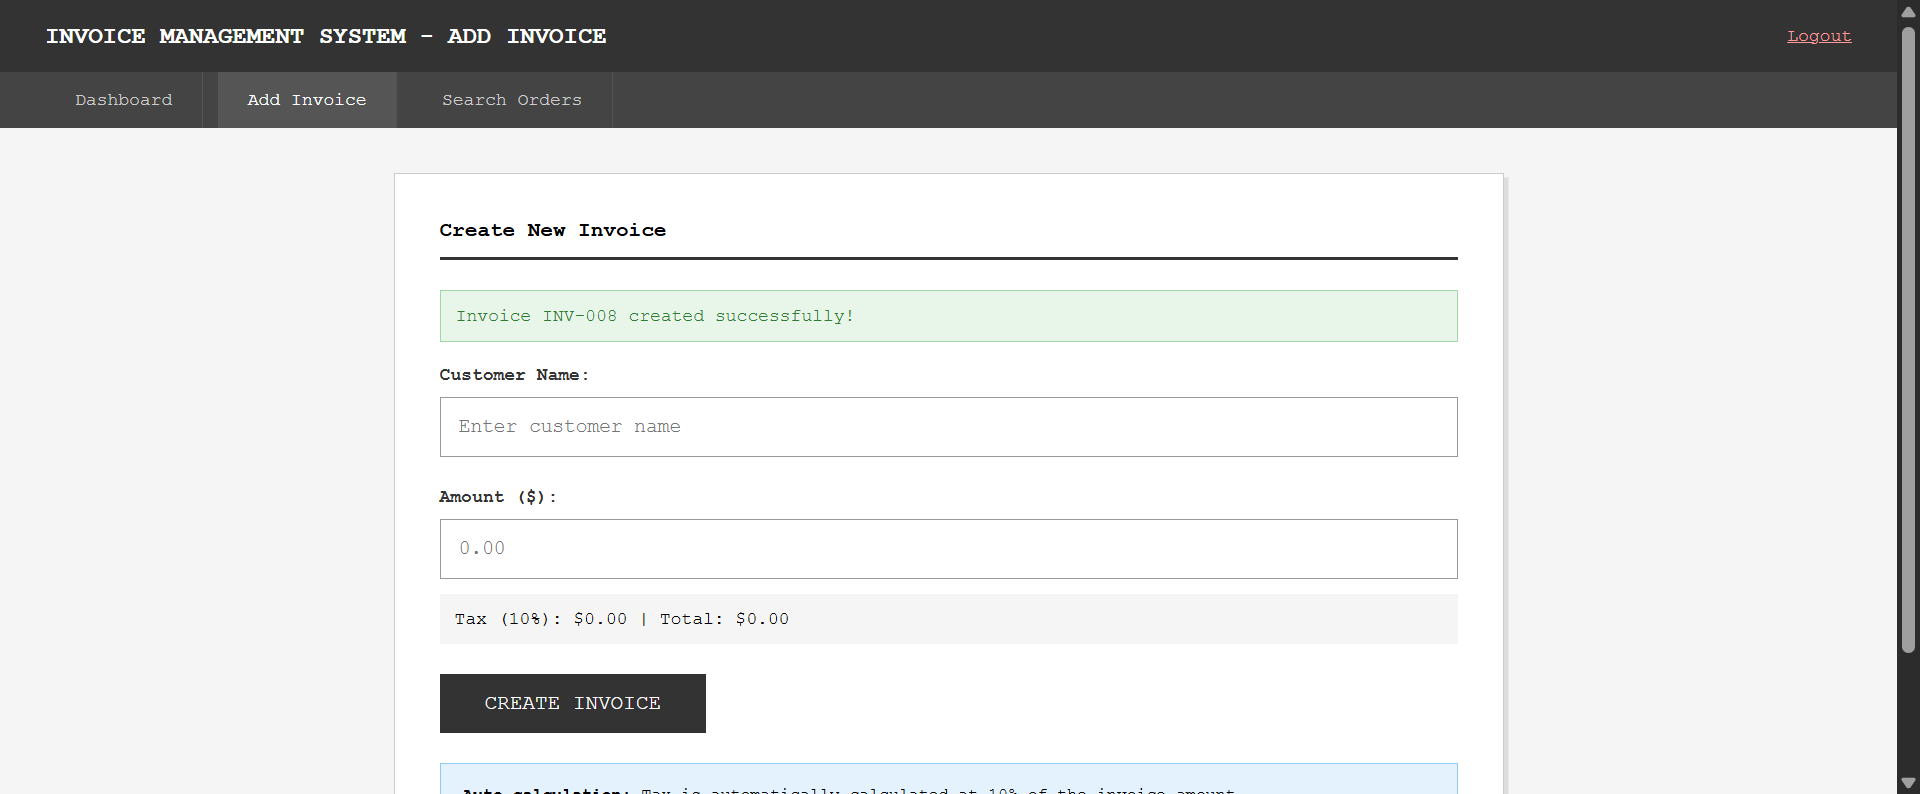
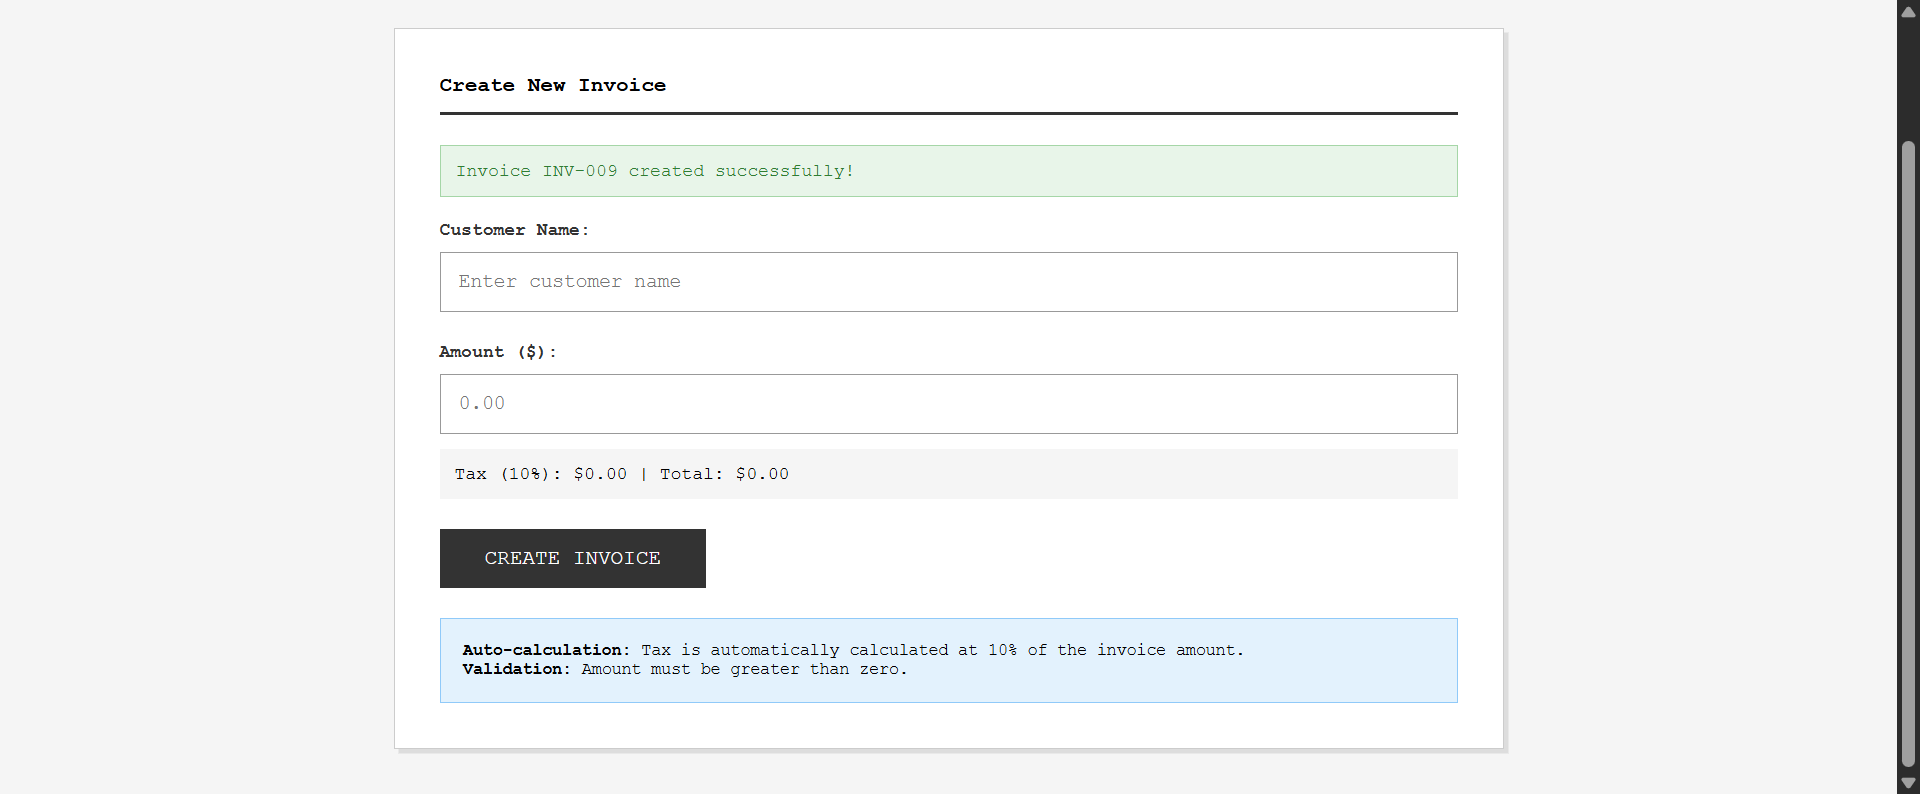
Complete Assignment 3: Finalized tests, container configs, Viva prep, and restructured project

diff --git a/docs/assignment.md b/docs/assignment.md
@@ -1,0 +1,116 @@
+# Software Reverse Engineering (CSE 327) - Assignment 3
+
+## 1. Introduction: The Legacy System
+For this assignment, a **Legacy Invoice Management System** was selected as the target system for reverse engineering. It is a monolithic Python Flask application that lacks documentation and automated testing. The system relies on simple HTML forms for logging in and creating invoices, storing data locally, and interacting with users via a web interface. 
+
+The goal of this assignment is to reverse engineer this undocumented legacy application by:
+1. Understanding its business logic via automated UI testing (Selenium).
+2. Containerizing the outdated environment to safely run and analyze it without breaking the host machine (Docker).
+3. Mapping out how data is processed, extracted, and transferred within the system (Apache NiFi).
+
+---
+
+## 2. Applying Tool 1: Selenium (Automated UI Testing)
+Since the legacy system lacked documentation regarding its expected behavior, Selenium was applied to automate interactions with the UI. This allowed us to extract the hidden logic, trace the workflow from login to invoice creation, and confirm how the system responds to valid inputs.
+
+### How it was applied:
+- We created a Python script using the `selenium` and `webdriver` libraries.
+- The script automatically launches a Chrome browser and navigates to the legacy app's login page.
+- It simulates a user entering credentials (`admin` / `admin123`) and clicking the submit button.
+- It then navigates to the invoice creation page, simulates form filling (`Test Customer`, `500`), and submits the data.
+- During this process, it captures screenshots to visually document the UI states.
+
+### Code Implemented:
+```python
+from selenium import webdriver
+from selenium.webdriver.common.by import By
+import time
+
+driver = webdriver.Chrome()
+
+# Test Login
+driver.get("http://localhost:8081/login")
+time.sleep(2)
+driver.find_element(By.NAME, "username").send_keys("admin")
+driver.find_element(By.NAME, "password").send_keys("admin123")
+driver.find_element(By.XPATH, "//button[@type='submit']").click()
+time.sleep(2)
+driver.save_screenshot("../screenshots/dashboard_after_login.png")
+
+# Test Add Invoice
+driver.get("http://localhost:8081/add-invoice")
+time.sleep(2)
+driver.find_element(By.NAME, "customer").send_keys("Test Customer")
+driver.find_element(By.NAME, "amount").send_keys("500")
+driver.find_element(By.XPATH, "//button[@type='submit']").click()
+time.sleep(2)
+driver.save_screenshot("../screenshots/invoice_added.png")
+driver.quit()
+```
+
+### Execution Output (Screenshots):
+<br><br><br><br><br>
+
+---
+
+## 3. Applying Tool 2: Docker (Containerization)
+Legacy systems often have very specific, outdated dependencies that can conflict with modern operating systems. Docker was applied to encapsulate the legacy Flask application into an isolated container. This allowed us to successfully replicate, run, and reverse engineer the environment without risking any damage to the host machine.
+
+### How it was applied:
+- A `Dockerfile` was used to define the base environment and install legacy requirements via `pip`.
+- A `docker-compose.yml` file was created to map port `8081` on the host to port `5000` inside the container.
+- Persistent volumes were configured to ensure that legacy data is safely stored outside the container.
+- The application was deployed as the `legacy_invoice_system` container.
+
+### Docker Configuration (docker-compose.yml):
+```yaml
+services:
+  legacy-app:
+    build:
+      context: ../app
+      dockerfile: ../docker/Dockerfile
+    container_name: legacy_invoice_system
+    ports:
+      - "8081:5000"
+    volumes:
+      - ../app/data:/app/data
+    restart: unless-stopped
+```
+
+### Execution Command:
+```powershell
+docker-compose up --build -d
+```
+
+### Execution Output (Docker Desktop Screenshot):
+<br><br><br><br><br>
+
+---
+
+## 4. Applying Tool 3: Apache NiFi (Data Flow Automation)
+To reverse engineer how data moves and is processed within the legacy system architecture, Apache NiFi was applied to visually trace and document the data flow pipeline.
+
+### How it was applied:
+- An Apache NiFi container was launched on port `8443`.
+- By accessing the NiFi web canvas, we reverse-engineered the data extraction process by designing a pipeline.
+- The pipeline represents pulling raw files (`GetFile`), breaking them down into manageable records (`SplitText`), logging the structure of the data (`LogAttribute`), and finally pushing the structured data into a database (`PutDatabaseRecord`).
+
+### Execution Command:
+```powershell
+docker run --name nifi -p 8443:8443 -d apache/nifi:latest
+```
+
+### Pipeline Flowchart (NiFi Canvas Screenshot):
+<br><br><br><br><br>
+
+---
+
+## 5. Part 4: Design Pattern Implementation (Smart University LMS)
+To address the challenges of creating customized dashboards for different roles and sending automated notifications, we applied two software design patterns.
+
+### Selected Design Patterns:
+1. **Factory Method Pattern**: Implemented to dynamically generate the correct dashboard (`StudentDashboard`, `TeacherDashboard`, `ParentDashboard`) based on the user type, keeping the instantiation logic encapsulated.
+2. **Observer Pattern**: Implemented to handle the notification requirements. The course acts as the Subject, and relevant users (Students, Teachers, Parents) act as Observers who automatically receive updates when the state changes.
+
+### Execution Output (Terminal Screenshot):
+<br><br><br><br><br>

diff --git a/docs/INSTRUCTIONS.md b/docs/INSTRUCTIONS.md
@@ -1,0 +1,92 @@
+# Project Instructions
+
+> **🟢 PROGRESS CHECKPOINT (Read after PC Restart):**
+> *   **What we just did:** We successfully installed WSL (Ubuntu) and set up the UNIX username (`aizaz`).
+> *   **What to do right now:** 
+>     1. Make sure Docker Desktop is open and running.
+>     2. Open your terminal in VS Code, navigate to `docker`, and run `docker-compose up --build -d`.
+>     3. Tell me (the AI) that you are back and Docker is running, and we will move on to the Selenium tests!
+
+
+This project is a legacy Python Flask app acting as an Invoice Management System, containerized with Docker, and tested using Selenium.
+
+Here are the instructions on how to run everything, along with troubleshooting steps if Docker fails.
+
+---
+
+## 1. Starting the Application
+
+You have two choices for running the application: using Docker (recommended) or running the Python app directly.
+
+### Option A: Using Docker (Recommended)
+1. Open Docker Desktop and ensure it is running (the icon in your system tray should be green).
+2. Open PowerShell and navigate to the `docker` directory:
+   ```powershell
+   cd "f:\Desktop\UNIVERSITY\7 semester\RE\Asiigment\assignment3\selenium-legacy-app\docker"
+   ```
+3. Build and start the container:
+   ```powershell
+   docker-compose up --build -d
+   ```
+4. The app will be available at: **http://localhost:8080**
+5. To stop the application later, run:
+   ```powershell
+   docker-compose down
+   ```
+
+> **Troubleshooting Docker:** 
+> If you get a "WSL not installed" or "failed to connect to the docker API" error, it means Windows Subsystem for Linux is missing.
+> 1. Open PowerShell as Administrator.
+> 2. Run: `wsl --install`
+> 3. Restart your computer.
+> 4. Open Docker Desktop and try the Docker instructions again.
+
+### Option B: Running Python Natively (No Docker)
+If you cannot use Docker, you can run the app directly using Python.
+1. Open PowerShell and navigate to the `app` directory:
+   ```powershell
+   cd "f:\Desktop\UNIVERSITY\7 semester\RE\Asiigment\assignment3\selenium-legacy-app\app"
+   ```
+2. Install the necessary Python packages:
+   ```powershell
+   pip install -r requirements.txt
+   ```
+3. Start the application:
+   ```powershell
+   python app.py
+   ```
+4. The app will be available at: **http://localhost:5000**
+
+*(Note: If you use Option B, you must edit `selenium/selenium_test.py` to target port 5000 instead of 8080).*
+
+---
+
+## 2. Running Selenium Automated Tests
+
+Once the application is running (via Option A or Option B), you can run the automated tests.
+
+1. Open a new terminal and navigate to the `selenium` folder:
+   ```powershell
+   cd "f:\Desktop\UNIVERSITY\7 semester\RE\Asiigment\assignment3\selenium-legacy-app\selenium"
+   ```
+2. Make sure Selenium is installed:
+   ```powershell
+   pip install selenium
+   ```
+3. Run the test script:
+   ```powershell
+   python selenium_test.py
+   ```
+4. The script will automatically open a browser window, log in, create an invoice, and take screenshots.
+5. You can view the output images in the `screenshots/` directory.
+
+---
+
+## Project Structure Overview
+* **`app/`**: The legacy Flask application source code and data.
+* **`docker/`**: Docker configurations (`Dockerfile` and `docker-compose.yml`).
+* **`selenium/`**: Selenium automated end-to-end test scripts.
+* **`lms/`**: LMS Design Patterns Python scripts.
+* **`nifi/`**: Dedicated folder for any Apache NiFi configs/flows.
+* **`screenshots/`**: Where Selenium saves its output images.
+* **`docs/`**: Project documentation (like this file!).

diff --git a/docs/viva_prep_nifi.md b/docs/viva_prep_nifi.md
@@ -11,11 +11,15 @@ Instead of installing Java and downloading the NiFi zip manually, you can run it
 1. Open your terminal in this folder.
 2. Run this command to start Apache NiFi:
    ```bash
-   docker run --name nifi -p 8080:8080 -d apache/nifi:latest
+   docker run --name nifi -p 8443:8443 -d apache/nifi:latest
    ```
 3. Wait about 1-2 minutes for NiFi to fully start up.
-4. Open your web browser and go to: `http://localhost:8080/nifi`
-
+4. Open your web browser and go to: `https://localhost:8443/nifi`
+5. NiFi automatically generates a secure username and password. To find it, run this command in your terminal:
+   ```bash
+   docker logs nifi | Select-String -Pattern "Generated"
+   ```
+   *Use those credentials to log into the web interface.*
 ## Building the Flow for Screenshots
 
 Once the NiFi UI is open, you need to create a flow to show in your assignment screenshots.

diff --git a/docs/viva_prep_docker.md b/docs/viva_prep_docker.md
@@ -42,11 +42,11 @@ services:
   legacy-app:
     build: .
     ports:
-      - "8080:5000"
+      - "8081:5000"
     volumes:
       - ./data:/app/data
 ```
 **What this does:**
 * `build: .` tells Docker Compose to look for the `Dockerfile` in the same folder and build it.
-* `ports: "8080:5000"` is crucial! It maps port 5000 (where the app runs *inside* the container) to port 8080 on your actual laptop. This matches the assignment requirement to access it via `http://localhost:8080`.
+* `ports: "8081:5000"` is crucial! It maps port 5000 (where the app runs *inside* the container) to port 8081 on your actual laptop. We specifically chose 8081 because port 8080 is often in use by other system services. This allows us to access it via `http://localhost:8081`.
 * `volumes:` Maps the `data` folder inside the container to your local `data` folder so the invoices you create are saved to your actual hard drive.

diff --git a/docs/viva_prep_selenium.md b/docs/viva_prep_selenium.md
@@ -25,7 +25,7 @@ driver = webdriver.Chrome()
 
 ## 2. Reverse Engineering the Login Page
 ```python
-driver.get("http://localhost:5000/login")
+driver.get("http://localhost:8081/login")
 time.sleep(2)
 driver.find_element(By.NAME, "username").send_keys("admin")
 driver.find_element(By.NAME, "password").send_keys("admin123")
@@ -47,7 +47,7 @@ driver.save_screenshot("dashboard_after_login.png")
 
 ## 4. Reverse Engineering the Invoice Feature
 ```python
-driver.get("http://localhost:5000/add-invoice")
+driver.get("http://localhost:8081/add-invoice")
 time.sleep(2)
 driver.find_element(By.NAME, "customer").send_keys("Test Customer")
 driver.find_element(By.NAME, "amount").send_keys("500")